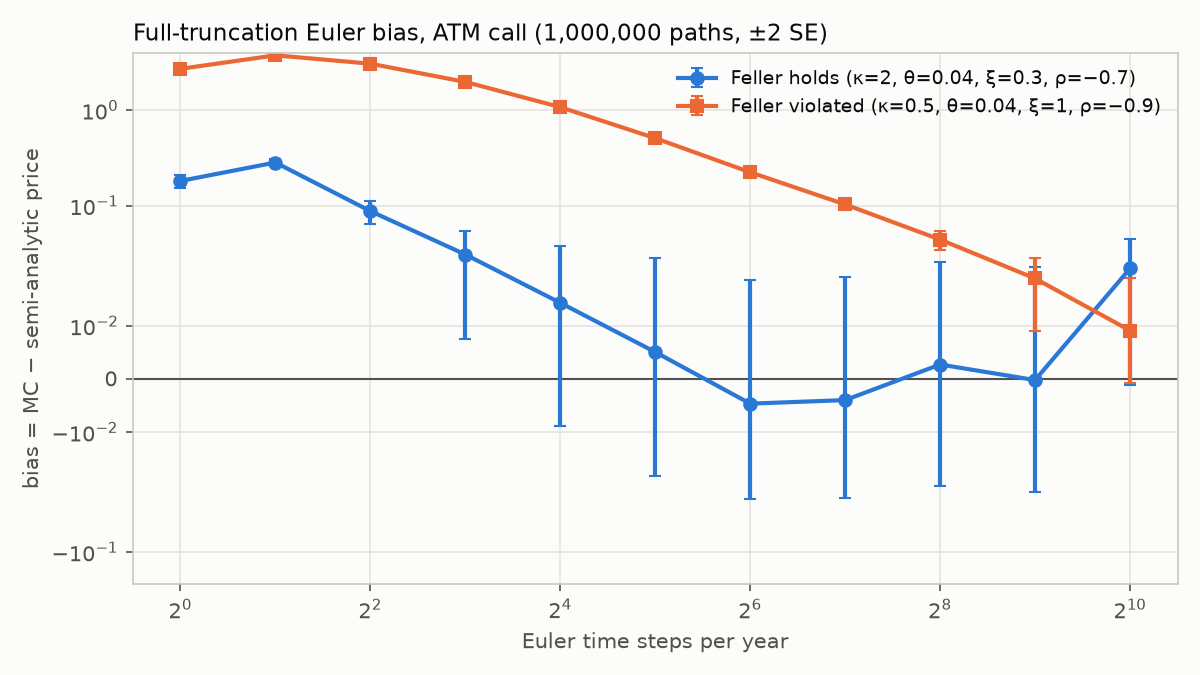
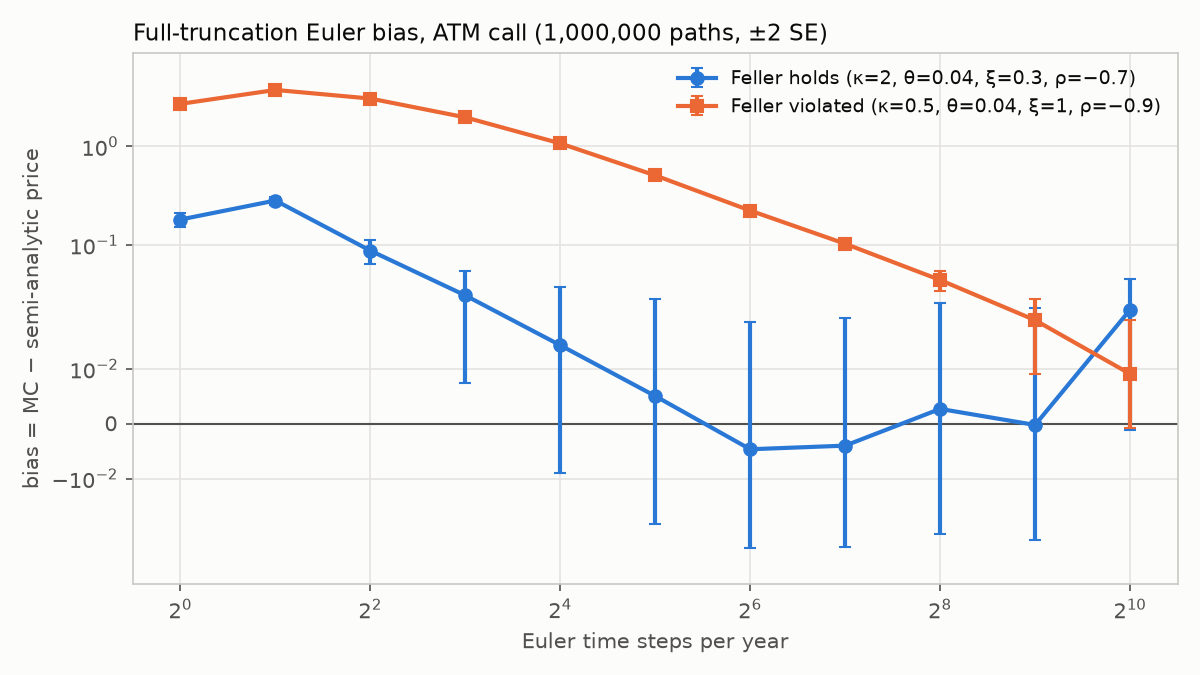
Record milestone 7 benchmark results, figures and environment

diff --git a/PROGRESS.md b/PROGRESS.md
@@ -13,8 +13,8 @@ Status labels:
 | 3  | Variance reduction (antithetic, control variates)      | VERIFIED (local + CI)        |
 | 4  | Arithmetic Asian (geometric CV) + discrete barrier     | VERIFIED (local + CI)        |
 | 5  | Sobol QMC + Brownian bridge + random digital shift     | VERIFIED (local + CI)        |
-| 6  | Heston (full-truncation Euler) + semi-analytic ref     | IMPLEMENTED                  |
-| 7  | Benchmarks + figures                                   | TODO                         |
+| 6  | Heston (full-truncation Euler) + semi-analytic ref     | VERIFIED (local + CI)        |
+| 7  | Benchmarks + figures                                   | VERIFIED (local)             |
 | 8  | README, resume bullets, talking points                 | TODO                         |
 | 9  | Final audit                                            | TODO                         |
 
@@ -211,3 +211,34 @@ Status labels:
   - Feller violated: bias is positive and falls by a factor 2.1–2.4 per doubling from 64 steps
     on, i.e. roughly first order in Δt there; it is still 3.8 SE at 512 steps. Euler with
     full truncation needs fine grids when the variance spends time near zero.
+- Local verification: pytest 340 passed; ruff check and ruff format --check clean.
+- CI verification: 6/6 jobs green on run 43378025682 (commit 7701299).
+
+### Milestone 7 — benchmarks and figures
+
+- `python benchmarks/run_all.py` runs every benchmark and saves each full output, starting with
+  the environment block, to `benchmarks/results/<name>.txt`. Figures: `benchmarks/figures/`
+  (thread_scaling, qmc_convergence, heston_bias).
+- Numbers below match the saved files: run on code commit 635a169 (`+dirty` = only
+  PROGRESS.md uncommitted). Afterwards a lint-only fix (ruff B023, loop-variable binding in a
+  lambda) changed `numpy_comparison.py` without changing what it measures. Apple M3 (4
+  performance + 4 efficiency cores), macOS 15.5, AppleClang 17.0.0.17000013, Release
+  `-O3 -DNDEBUG`, Python 3.13.18, NumPy 2.5.4. Timings are medians of 5 repeats.
+- Variance reduction, QMC and Heston outputs are identical to the milestone 3, 5 and 6 runs
+  (same seeds, same code). Thread scaling, 20M paths: 50.5 Mpaths/s on 1 thread, 3.83× on 4,
+  5.57× on 8, bit-identical at every count (milestone 2 measured 3.70× and 5.63×; an
+  intermediate run gave 3.85× and 5.77×: run-to-run variation of a few percent).
+- C++ vs vectorized NumPy (wall-clock from Python, same estimator and path count, different
+  random generators; all estimates agree within 4 combined SE):
+
+  | product                          | NumPy     | C++, 1 thread       | C++, 8 threads       |
+  |----------------------------------|-----------|---------------------|----------------------|
+  | European call, 10M paths         | 0.117 s   | 0.198 s (0.59×)     | 0.034 s (3.42×)      |
+  | Arithmetic Asian, 64 steps, 1M   | 0.650 s   | 0.643 s (1.01×)     | 0.128 s (5.09×)      |
+
+  - Single-threaded, NumPy is faster than our C++ on the European call (85.7 vs 50.6
+    Mpaths/s) and level on the Asian. The C++ speedup comes from multithreading.
+  - Likely causes, not yet profiled: NumPy draws normals with the ziggurat method, while we
+    use the inverse CDF (AS241: a log, a sqrt and rational polynomials per normal) to stay
+    bit-identical across platforms; NumPy's array `exp` may also be SIMD-vectorized. Profiling
+    the single-thread loop is listed as future work, not claimed as a fix.
